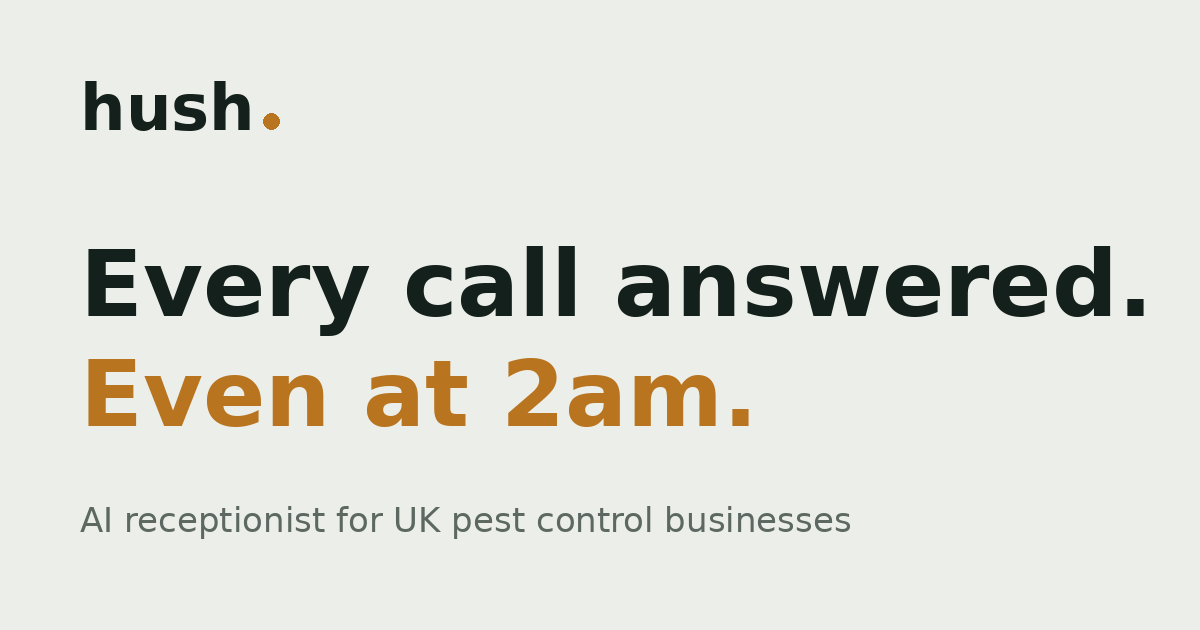
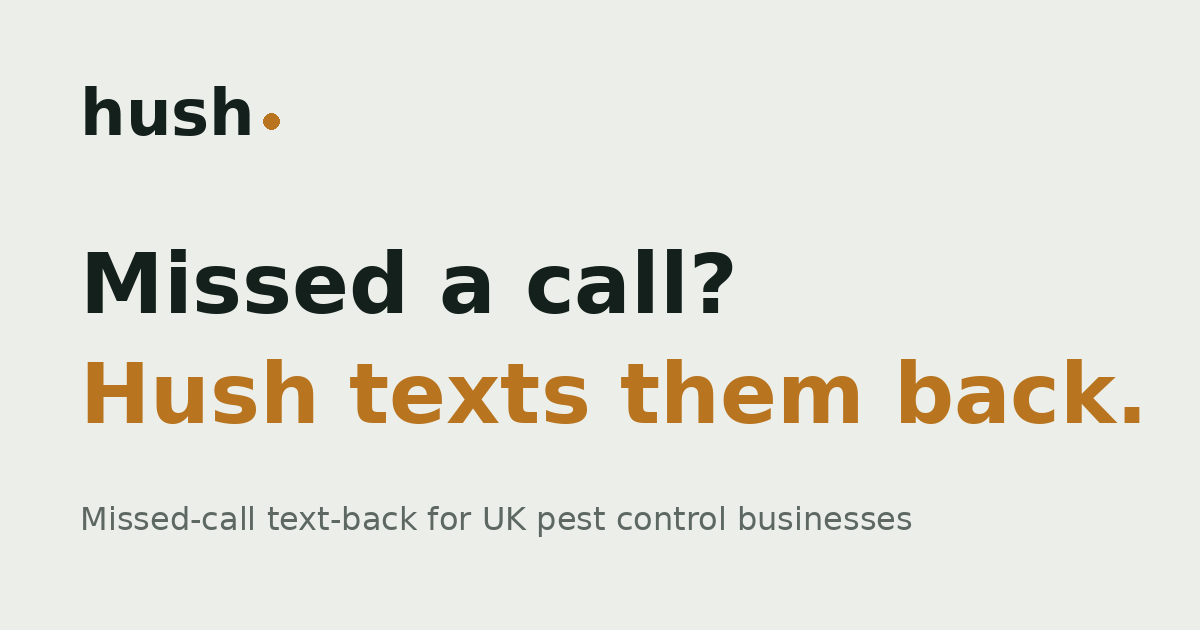
Switch Hush from voice receptionist to missed-call text-back
Rewrite the landing page around texting back missed calls, quoting
from the firm's own prices and booking the job. Update privacy page,
README and share image to match.

Claude-Session: https://claude.ai/code/session_01FWnBPebfVPPioAWwQySAka

diff --git a/index.html b/index.html
@@ -3,8 +3,8 @@
 <head>
 <meta charset="utf-8">
 <meta name="viewport" content="width=device-width, initial-scale=1, viewport-fit=cover">
-<title>Hush – AI receptionist for pest control businesses</title>
-<meta name="description" content="Hush is an AI receptionist for UK pest control businesses. It answers every call, even at 2am, books the job and texts you the details.">
+<title>Hush – never lose a pest job to a missed call</title>
+<meta name="description" content="Hush texts back every missed call for UK pest control businesses, quotes from your own prices and books the job. You get the details on your phone.">
 <link rel="canonical" href="https://hushdesk.app/">
 <meta name="theme-color" content="#eceee9" media="(prefers-color-scheme: light)">
 <meta name="theme-color" content="#0f1512" media="(prefers-color-scheme: dark)">
@@ -15,15 +15,15 @@
 <meta property="og:site_name" content="Hush">
 <meta property="og:locale" content="en_GB">
 <meta property="og:url" content="https://hushdesk.app/">
-<meta property="og:title" content="Hush – every call answered, even at 2am">
-<meta property="og:description" content="An AI receptionist for UK pest control businesses. It answers the phone, books the job and texts you the details.">
+<meta property="og:title" content="Hush – missed a call? Hush texts them back">
+<meta property="og:description" content="For UK pest control businesses. Hush texts back every missed call, quotes from your prices and books the job.">
 <meta property="og:image" content="https://hushdesk.app/og-image.png">
 <meta property="og:image:width" content="1200">
 <meta property="og:image:height" content="630">
-<meta property="og:image:alt" content="Hush: every call answered, even at 2am.">
+<meta property="og:image:alt" content="Hush: missed a call? Hush texts them back.">
 <meta name="twitter:card" content="summary_large_image">
-<meta name="twitter:title" content="Hush – every call answered, even at 2am">
-<meta name="twitter:description" content="An AI receptionist for UK pest control businesses. It answers the phone, books the job and texts you the details.">
+<meta name="twitter:title" content="Hush – missed a call? Hush texts them back">
+<meta name="twitter:description" content="For UK pest control businesses. Hush texts back every missed call, quotes from your prices and books the job.">
 <meta name="twitter:image" content="https://hushdesk.app/og-image.png">
 <link rel="preconnect" href="https://fonts.googleapis.com">
 <link rel="preconnect" href="https://fonts.gstatic.com" crossorigin>
@@ -76,9 +76,8 @@ nav .wrap{display:flex;align-items:center;justify-content:space-between;padding-
 /* call card */
 .call{background:var(--surface);border:1px solid var(--line);border-radius:22px;padding:22px;box-shadow:0 30px 60px -30px rgba(20,32,27,.35);min-width:0;margin:0}
 .callhead{display:flex;justify-content:space-between;align-items:center;font-family:var(--mono);font-size:12.5px;color:var(--muted);padding-bottom:14px;border-bottom:1px dashed var(--line)}
-.live{display:flex;align-items:center;gap:8px;color:var(--ai);font-weight:500}
-.live b{width:8px;height:8px;border-radius:50%;background:var(--ai);animation:pulse 1.6s infinite}
-@keyframes pulse{50%{opacity:.25}}
+.miss{color:var(--miss);font-weight:500}
+.saved{font-family:var(--mono);font-size:12.5px;color:var(--ai);white-space:nowrap}
 .lines{display:flex;flex-direction:column;gap:12px;padding-top:16px}
 .ln{max-width:88%;padding:11px 15px;border-radius:16px;font-size:15.5px;line-height:1.45}
 .ln small{display:block;font-family:var(--mono);font-size:11px;letter-spacing:.06em;text-transform:uppercase;opacity:.7;margin-bottom:3px}
@@ -160,7 +159,7 @@ footer a:hover{color:var(--ink)}
   .steps{grid-template-columns:1fr;gap:28px}
   section{padding-block:64px}
 }
-@media (prefers-reduced-motion:reduce){.live b{animation:none}.btn{transition:none}}
+@media (prefers-reduced-motion:reduce){.btn{transition:none}}
 </style>
 </head>
 <body>
@@ -173,28 +172,30 @@ footer a:hover{color:var(--ink)}
 <main>
 <header class="hero"><div class="wrap">
   <div>
-    <div class="eyebrow">AI receptionist for pest control</div>
-    <h1>Every call answered. <em>Even at 2am.</em></h1>
-    <p class="lede">While you're up a ladder with a wasp nest, Hush picks up your phone, books the job and texts you the details. Callers get a calm, friendly voice instead of voicemail.</p>
+    <div class="eyebrow">Missed-call text-back for pest control</div>
+    <h1>Missed a call? <em>Hush texts them back.</em></h1>
+    <p class="lede">While you're up a ladder with a wasp nest, Hush texts the caller within a minute, quotes from your own prices and books the job. You get the details on your phone, and the customer never rings the next company.</p>
     <div class="ctas">
       <a class="btn" href="#trial">Try it free for 7 days</a>
       <span class="small">No card. Just honest feedback.</span>
     </div>
   </div>
 
-  <figure class="call" aria-label="Example call handled by Hush">
-    <div class="callhead"><span class="live"><b></b>Hush on the line</span><span>02:07 · Thu</span></div>
+  <figure class="call" aria-label="Example text conversation handled by Hush after a missed call">
+    <div class="callhead"><span class="miss">↙ Missed call · 07700 900 418</span><span>14:12 · Tue</span></div>
     <div class="lines">
-      <div class="ln c"><small>Caller</small>Hi, there's wasps going in and out of my loft. Can someone come out?</div>
-      <div class="ln h"><small>Hush</small>I can sort that for you. What's the postcode, and is anyone in the house allergic to stings?</div>
-      <div class="ln c"><small>Caller</small>LS6 2QT. No allergies, but I've got two kids.</div>
-      <div class="ln h"><small>Hush</small>Thanks. I've booked a technician for 8am tomorrow and sent you a confirmation text.</div>
+      <div class="ln h"><small>Hush · 14:13</small>Hi, sorry we missed your call, it's Northvale Pest Control. Is it wasps, mice or something else?</div>
+      <div class="ln c"><small>Customer</small>Wasps going in and out of the roof edge</div>
+      <div class="ln h"><small>Hush</small>We can treat that for £95. Tomorrow <span style="white-space:nowrap">10–12</span> or <span style="white-space:nowrap">2–4</span>? What's your postcode?</div>
+      <div class="ln c"><small>Customer</small>10–12 please. LS6 2QT</div>
+      <div class="ln h"><small>Hush</small>Booked for Wed 10–12. Dan will text when he's on his way.</div>
     </div>
     <dl class="booked">
-      <dt>Job</dt><dd>Wasp nest, loft</dd>
+      <dt>Job</dt><dd>Wasp nest, roof edge</dd>
       <dt>Where</dt><dd>LS6 2QT</dd>
-      <dt>Slot</dt><dd>Fri 08:00</dd>
-      <dt>Sent to you</dt><dd>SMS summary ✓</dd>
+      <dt>Slot</dt><dd>Wed 10:00–12:00</dd>
+      <dt>Price</dt><dd>£95 (your price list)</dd>
+      <dt>Sent to you</dt><dd>Summary ✓</dd>
     </dl>
   </figure>
 </div></header>
@@ -202,14 +203,14 @@ footer a:hover{color:var(--ink)}
 <section aria-labelledby="problem-h"><div class="wrap">
   <div class="eyebrow">The problem</div>
   <h2 id="problem-h">Pest calls don't wait. If you don't pick up, the next company on Google does.</h2>
-  <p class="intro">People ring about wasps, rats and bed bugs when they're stressed. Most won't leave a voicemail. They just try someone else.</p>
-  <figure class="recents" aria-label="Example list of missed calls">
+  <p class="intro">People ring about wasps, rats and bed bugs when they're stressed. Most won't leave a voicemail. They just try someone else. The most common complaint in pest control reviews isn't the treatment, it's "no one called me back."</p>
+  <figure class="recents" aria-label="Example list of missed calls, each texted back by Hush">
     <div class="rhead"><span>Recents</span><span class="rcount">4 missed today</span></div>
-    <div class="row"><span class="ic" aria-hidden="true">↙</span><div class="who"><b>07700 900 418</b><span>mobile · no voicemail</span></div><time>08:47</time></div>
-    <div class="row"><span class="ic" aria-hidden="true">↙</span><div class="who"><b>07700 900 162</b><span>mobile · no voicemail</span></div><time>13:31</time></div>
-    <div class="row"><span class="ic" aria-hidden="true">↙</span><div class="who"><b>0113 496 0275</b><span>Leeds · no voicemail</span></div><time>18:15</time></div>
-    <div class="row"><span class="ic" aria-hidden="true">↙</span><div class="who"><b>07700 900 731</b><span>mobile · no voicemail</span></div><time>23:42</time></div>
-    <p class="rnote">Any one of these could have been a paying job.</p>
+    <div class="row"><span class="ic" aria-hidden="true">↙</span><div class="who"><b>07700 900 418</b><span>no voicemail · <span class="saved">✓ texted back, booked £95</span></span></div><time>08:47</time></div>
+    <div class="row"><span class="ic" aria-hidden="true">↙</span><div class="who"><b>07700 900 162</b><span>no voicemail · <span class="saved">✓ texted back, booked £180</span></span></div><time>13:31</time></div>
+    <div class="row"><span class="ic" aria-hidden="true">↙</span><div class="who"><b>0113 496 0275</b><span>no voicemail · <span class="saved">✓ texted back, sent to you</span></span></div><time>18:15</time></div>
+    <div class="row"><span class="ic" aria-hidden="true">↙</span><div class="who"><b>07700 900 731</b><span>no voicemail · <span class="saved">✓ texted back, booked £95</span></span></div><time>23:42</time></div>
+    <p class="rnote">Four missed calls. Four replies within a minute. Three jobs booked.</p>
   </figure>
 </div></section>
 
@@ -217,16 +218,16 @@ footer a:hover{color:var(--ink)}
   <div class="eyebrow">How it works</div>
   <h2 id="how-h">Set up once. Then stop worrying about the phone.</h2>
   <ol class="steps">
-    <li><span class="n">Step 1</span><h3>Forward your calls</h3><p>Send missed or after-hours calls to your Hush number. Your customers dial the same number they always have.</p></li>
-    <li><span class="n">Step 2</span><h3>Hush picks up</h3><p>It answers in a natural voice, asks the right questions about the pest problem and books a slot.</p></li>
-    <li><span class="n">Step 3</span><h3>You get a text</h3><p>Every call ends with a short summary on your phone: who rang, where, what pest, and when you're booked in.</p></li>
+    <li><span class="n">Step 1</span><h3>You miss a call</h3><p>Up a ladder, driving, or it's 11pm. Unanswered calls go to Hush. Customers still ring the same number they always have.</p></li>
+    <li><span class="n">Step 2</span><h3>Hush texts them back</h3><p>Within a minute, from your business name. It asks what the pest is, gives a price from your own list and offers your free slots.</p></li>
+    <li><span class="n">Step 3</span><h3>The job lands with you</h3><p>You get a short summary on your phone: who, where, what pest, price and time. Anything unusual comes to you instead of being booked.</p></li>
   </ol>
 </div></section>
 
 <section aria-labelledby="asks-h"><div class="wrap">
-  <div class="eyebrow">On every call</div>
+  <div class="eyebrow">In every chat</div>
   <h2 id="asks-h">It asks what you'd ask.</h2>
-  <p class="intro">Hush is set up for pest control, so it knows which details matter before you turn up.</p>
+  <p class="intro">Hush is set up for pest control, so it knows which details matter before you turn up. It works by text, WhatsApp and a chat box on your website.</p>
   <ul class="caps">
     <li>Name &amp; number</li><li>Address &amp; postcode</li><li>Type of pest</li><li>Where it is (loft, kitchen, garden)</li><li>How long it's been going on</li><li>Kids, pets or allergies</li><li>Residential or commercial</li><li>Best time to visit</li>
   </ul>
@@ -239,7 +240,8 @@ footer a:hover{color:var(--ink)}
     <p class="intro">Use it free for a week on your real calls. In return, tell me what works and what doesn't.</p>
     <ul>
       <li>Free for 7 days, no card needed</li>
-      <li>Set up for your business and your services</li>
+      <li>Set up with your services, prices and working hours</li>
+      <li>See every chat and every booking</li>
       <li>Turn it off any time</li>
     </ul>
   </div>
@@ -275,9 +277,10 @@ footer a:hover{color:var(--ink)}
   <div class="eyebrow">Questions</div>
   <h2 id="faq-h">Before you try it</h2>
   <div class="faq">
-    <details><summary>Will callers know it's AI?</summary><p>It sounds natural, but if someone asks, Hush tells them it's an automated assistant. Most callers just want the problem sorted.</p></details>
-    <details><summary>What about emergencies?</summary><p>You choose what counts as urgent. For those, Hush can text you straight away so you can call back fast.</p></details>
-    <details><summary>Do I need a new phone number?</summary><p>No. You forward calls from your existing number, so nothing changes for your customers.</p></details>
+    <details><summary>Will customers know it's automated?</summary><p>Texts come from your business name. If someone asks, Hush says it's your automated assistant, and you can jump into any chat yourself. Most people just want a quick answer and a time.</p></details>
+    <details><summary>What if it quotes the wrong price?</summary><p>It only uses the prices you give it. Anything it isn't sure about, like a big commercial job or an unusual pest, goes to you instead of being booked.</p></details>
+    <details><summary>What about emergencies?</summary><p>You choose what counts as urgent. For those, Hush texts you straight away so you can call back fast.</p></details>
+    <details><summary>Do I need a new phone number?</summary><p>No. Your phone forwards unanswered calls to Hush, so customers still ring the number they always have.</p></details>
     <details><summary>What happens after the free week?</summary><p>Nothing, unless you want to keep it. If you do, I'll agree a simple monthly price with you that fits your business.</p></details>
   </div>
 </div></section>

diff --git a/privacy.html b/privacy.html
@@ -96,8 +96,8 @@ footer .links{display:flex;flex-wrap:wrap;gap:8px 20px}
   </ul>
   <p>Where a service is based outside the UK, it relies on UK-approved safeguards for international transfers.</p>
 
-  <h2>Calls answered by Hush</h2>
-  <p>When Hush answers calls for a pest control business, it collects the caller's details (such as name, number, address and the pest problem) and sends them to that business. The pest control business decides how that information is used and is responsible for it. Hush handles it on their behalf, using a voice AI provider to hear and answer the call. Callers who want to ask about their information should contact the business they rang.</p>
+  <h2>Messages handled by Hush</h2>
+  <p>When Hush texts back a missed call or chats with a customer for a pest control business, it collects the customer's details (such as name, number, address and the pest problem) and sends them to that business. The pest control business decides how that information is used and is responsible for it. Hush handles it on their behalf, using a messaging provider to send and receive texts and an AI provider to write the replies. Customers who want to ask about their information should contact the business they contacted.</p>
 
   <h2>How long I keep it</h2>
   <p>Trial sign-ups are deleted automatically after 12 months. If you ask me to delete your details sooner, I'll do it within a month.</p>

diff --git a/README.md b/README.md
@@ -1,3 +1,3 @@
 # Hush
 
-AI receptionist for pest control businesses. Every call answered, even at 2am.
+Missed-call text-back for UK pest control businesses. Hush texts back every missed call, quotes from your own prices and books the job.
